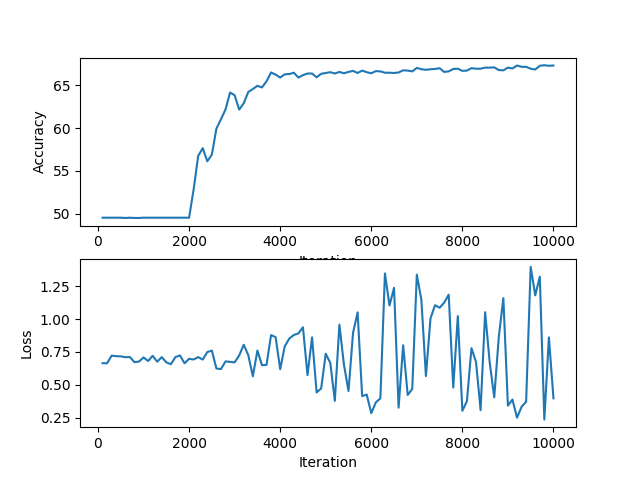
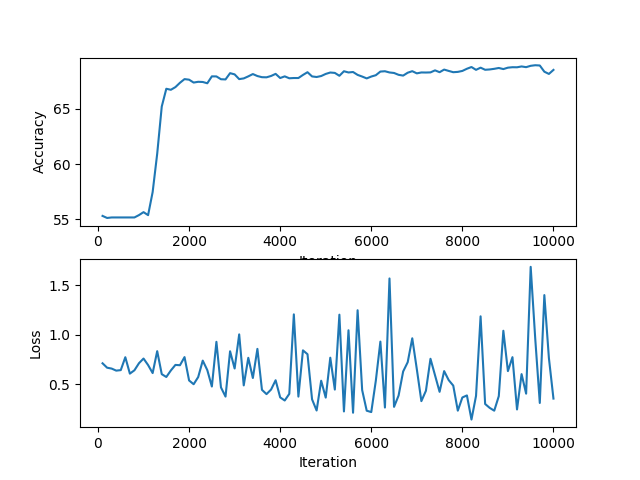
Added a function to just augment training dataset

diff --git a/models/network.py b/models/network.py
@@ -12,9 +12,9 @@ class FoodDesertClassifier(nn.Module):
         self.linear2 = nn.Linear(hidden_dim_list[0], hidden_dim_list[1])
         self.linear3 = nn.Linear(hidden_dim_list[1], hidden_dim_list[2])
         self.linear4 = nn.Linear(hidden_dim_list[2], hidden_dim_list[3])
-        self.linear5 = nn.Linear(hidden_dim_list[3], hidden_dim_list[4])
-        self.linear6 = nn.Linear(hidden_dim_list[4], hidden_dim_list[5])
-        self.output = nn.Linear(hidden_dim_list[5], output_size)
+        # self.linear5 = nn.Linear(hidden_dim_list[3], hidden_dim_list[4])
+        # self.linear6 = nn.Linear(hidden_dim_list[4], hidden_dim_list[5])
+        self.output = nn.Linear(hidden_dim_list[3], output_size)
         self.ReLU = nn.ReLU()
 
     """
@@ -30,10 +30,10 @@ class FoodDesertClassifier(nn.Module):
         x = self.ReLU(x)
         x = self.linear4(x)
         x = self.ReLU(x)
-        x = self.linear5(x)
-        x = self.ReLU(x)
-        x = self.linear6(x)
-        x = self.ReLU(x)
+        # x = self.linear5(x)
+        # x = self.ReLU(x)
+        # x = self.linear6(x)
+        # x = self.ReLU(x)
         
         x = self.output(x)
         return x

diff --git a/data/data_utils.py b/data/data_utils.py
@@ -58,6 +58,39 @@ def oversample(data_and_labels):
 
     return new_data
 
+def oversample_train(train):
+    random.shuffle(train)
+    num_not_desert = 0
+    num_desert = 0
+    deserts = []
+    new_train = []
+    for item in train:
+        label = item[1]
+        if label == 0:
+            num_not_desert += 1
+        else:
+            deserts.append(item)
+            num_desert += 1
+        new_train.append(item)
+
+    print('Num deserts:', num_desert)
+    print('Num non-deserts:', num_not_desert)
+
+    # i = 0
+    # while num_desert < num_not_desert:
+        # new_train.append(deserts[i])
+        # i += 1
+        # if i == len(deserts): i = 0
+        # num_desert += 1
+    for item in deserts:
+        new_train.append(item)
+        new_train.append(item)
+        new_train.append(item)
+        new_train.append(item)
+
+    random.shuffle(new_train)
+    return new_train
+
 """
 Given a the food desert dataset, this will undersample it to include fewer 
 non-food desert datapoints, making it more balanced.

diff --git a/train_v2.py b/train_v2.py
@@ -31,7 +31,7 @@ def main(argv):
 
     # Oversample
     # data_and_labels = data_utils.oversample(data_and_labels)
-    data_and_labels = data_utils.undersample(data_and_labels)
+    # data_and_labels = data_utils.undersample(data_and_labels)
 
     # Standardize the data.
     x_data = [x[0] for x in data_and_labels]
@@ -48,14 +48,16 @@ def main(argv):
     train_data = data[:(data_size // 10) * 8]
     val_data = data[(data_size // 10) * 8 : (data_size // 10) * 9]
     test_data = data[(data_size // 10) * 9 :]
+
+    train_data = data_utils.oversample_train(train_data)
+
     print(len(train_data), 'training points.')
     print(len(val_data), 'validation points.')
     print(len(test_data), 'testing points.')
 
-
     input_dim = len(data[0][0]) # number of features
     output_dim = 2 # two classes: food desert and not food desert
-    hidden_dim_list = [16, 36, 36, 24, 16, 8]
+    hidden_dim_list = [16, 36, 36, 24]
 
     model_nn = FoodDesertClassifier(input_dim, hidden_dim_list,
             output_dim).to(device)
